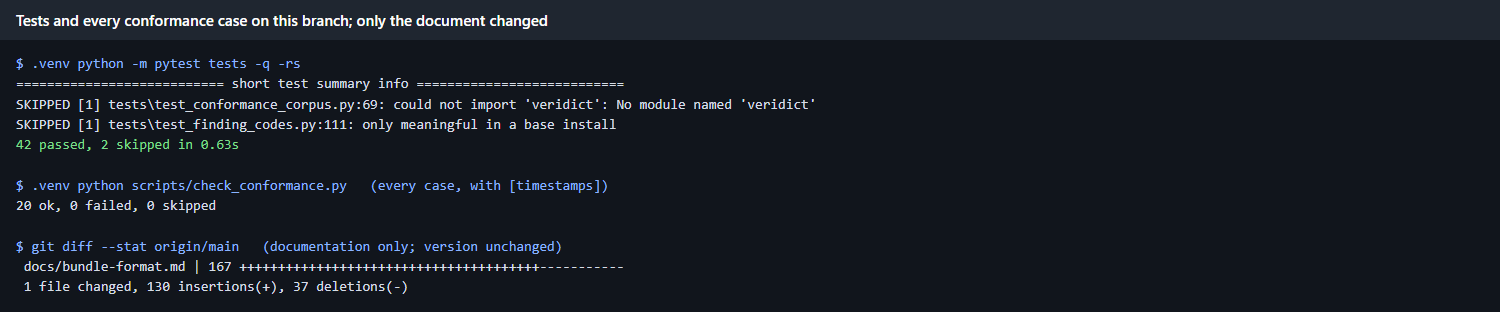
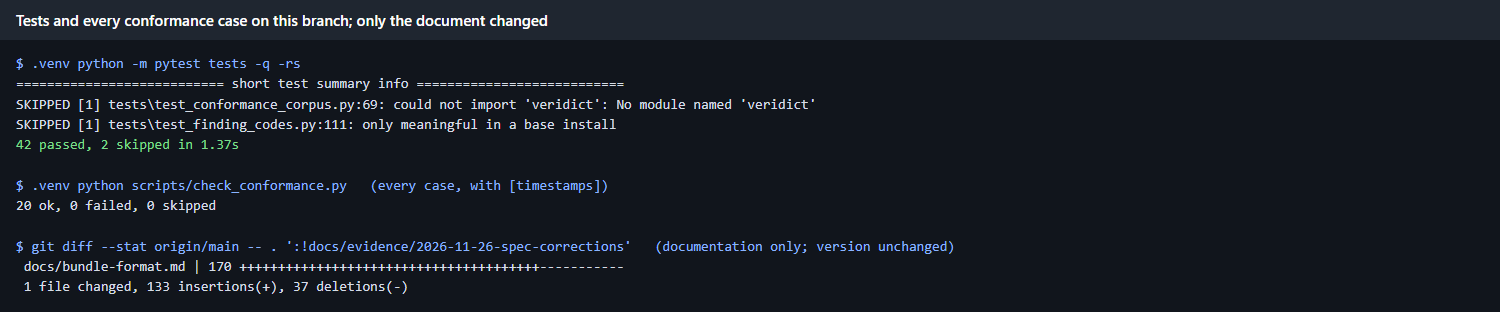
Say which errors stop --check-tree
The tree check runs after the archive, manifest, journal and artifact
checks only (verifier.py:1448). Graph semantics, corroboration, Source
Brief, per-artifact timestamps and --forbid-ai-steps run after it, so
their errors do not stop it. The spec said it runs only when the bundle
has no other error. Same wording as the engine's copy. Add evidence 06
and re-render 01, 02, 03 and 05, whose hunk line numbers and diff stat
moved.

Changed region(s): [[0.1533, 0.7788, 0.644, 0.8077], [0.1227, 0.4327, 0.1533, 0.4904], [0.1227, 0.8365, 0.1533, 0.8654]]

diff --git a/docs/bundle-format.md b/docs/bundle-format.md
@@ -339,15 +339,18 @@ are UTF-8 with one line per file: the SHA-256 as 64 lowercase hex, two spaces, t
 relative path, LF. Paths use `/`, have no empty, `.` or `..` segment and no
 duplicates, and are sorted by Unicode code point; the last line ends with LF.
 
-**`--check-tree`** runs only when the bundle has no other error; after an earlier error
-the folder is not compared and no `tree` finding appears. It walks FOLDER and skips
-files whose name starts with `~$` or is `thumbs.db`, `desktop.ini` or `.ds_store` in
-any letter case (the engine skips the same names when it seals). Each difference is a
-`tree.mismatch` error (`added: P`, `changed: P`, `missing: P`). A malformed inventory,
-a link, reparse point or offline placeholder, any other non-regular entry, two names
-that are equal after NFC normalisation and case folding, or a file that changes while
-it is read is `tree.unreadable`. Anything other than exactly one selected inventory is
-`tree.inventory_count`.
+**`--check-tree`** runs only when the archive, manifest, journal (record signatures and
+`chain_timestamp` included) and artifact (hashes and content seals) checks found no
+error; after such an error the folder is not compared and no `tree` finding appears.
+The graph-semantics, corroboration, Source Brief, per-artifact timestamp and
+`--forbid-ai-steps` checks run after it, so their errors do not stop it. It walks
+FOLDER and skips files whose name starts with `~$` or is `thumbs.db`, `desktop.ini` or
+`.ds_store` in any letter case (the engine skips the same names when it seals). Each
+difference is a `tree.mismatch` error (`added: P`, `changed: P`, `missing: P`). A
+malformed inventory, a link, reparse point or offline placeholder, any other
+non-regular entry, two names that are equal after NFC normalisation and case folding,
+or a file that changes while it is read is `tree.unreadable`. Anything other than
+exactly one selected inventory is `tree.inventory_count`.
 
 ## Source Brief steps
 

diff --git a/docs/evidence/2026-11-26-spec-corrections/README.md b/docs/evidence/2026-11-26-spec-corrections/README.md
@@ -15,9 +15,10 @@ the engine owner. Nothing in this package changes, and neither does its version.
 | `03-verifier-versions.png` | Which rows of the version table the check scripts tested and which come from reading the code; the `--check-tree` cell for 0.3.0 |
 | `04-known-gaps.png` | The new **Known gaps** subsection |
 | `05-tests.png` | This package's tests and every conformance case, on this branch |
+| `06-check-tree.png` | The inventory byte format, and which errors stop `--check-tree`: only those from the checks that run before it (archive, manifest, journal, artifacts), with the lines of this package's verifier that set the order |
 
 The other corrections (manifest rows, times, the `contradicts` and `supersedes` edge
-types, the `human/` prefix, register rows, inventory bytes and `--check-tree`) are in
-the same diff. Each screenshot is plain-text output in a terminal style under a
-one-line caption (Edge via Playwright). The text was not edited, except that
-screenshot 1 leaves out the engine-side lines of the comparison.
+types, the `human/` prefix, register rows) are in the same diff. Each screenshot is
+plain-text output in a terminal style under a one-line caption (Edge via Playwright).
+The text was not edited, except that screenshot 1 leaves out the engine-side lines of
+the comparison.
